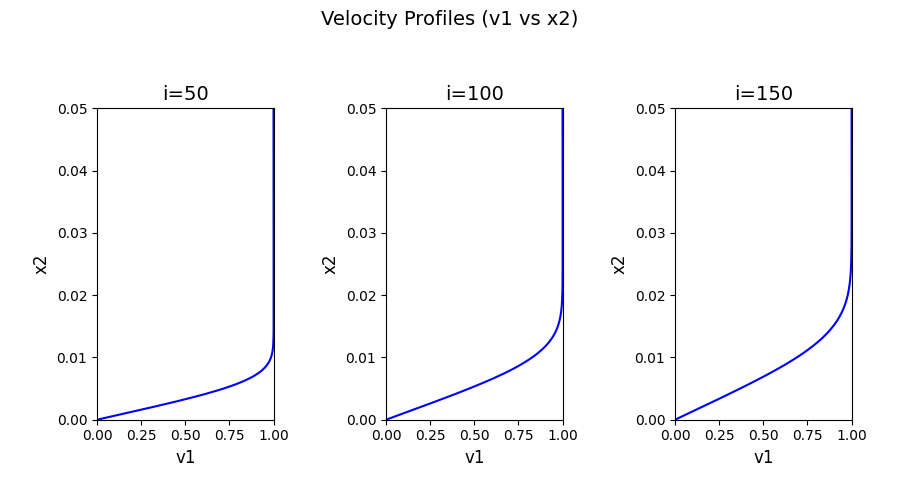
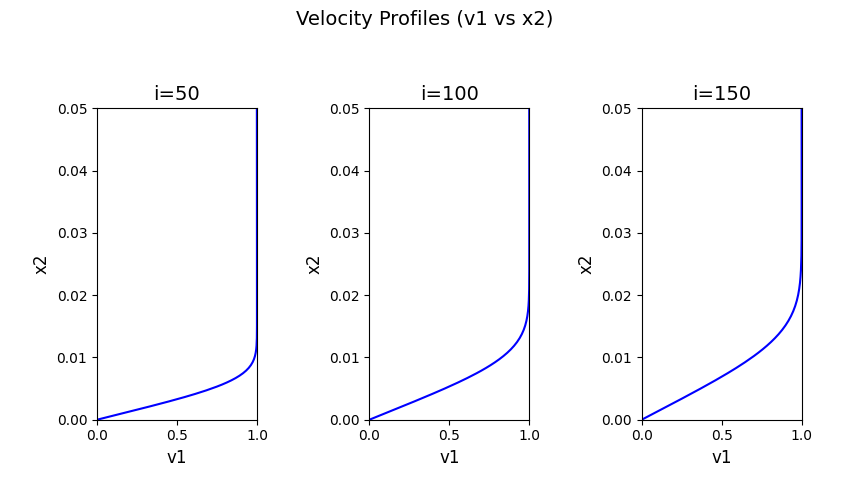
.

diff --git a/TME226/A1 - Martin.py b/TME226/A1 - Martin.py
@@ -39,7 +39,7 @@ plt.rc('xtick', labelsize=SMALL_SIZE)    # fontsize of the tick labels
 plt.rc('ytick', labelsize=SMALL_SIZE)    # fontsize of the tick labels
 plt.rc('legend', fontsize=SMALL_SIZE)    # legend fontsize
 plt.rc('figure', titlesize=BIGGER_SIZE)  # fontsize of the figure title
-plt.rc('figure', figsize=(9, 5))
+plt.rc('figure', figsize=(8.5, 5))
 
 
 def plotta_subplots(
